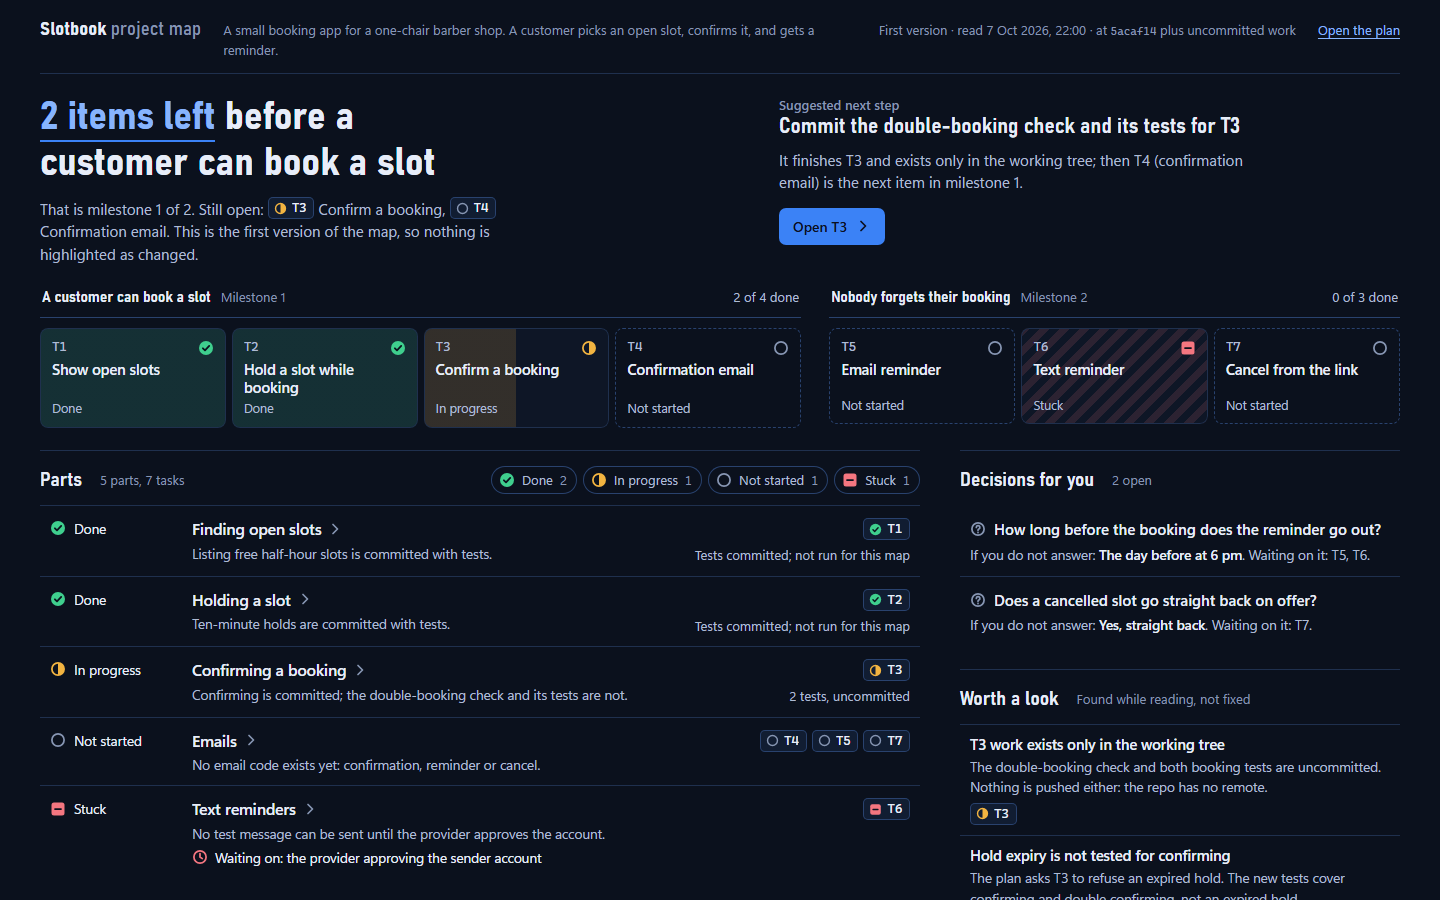
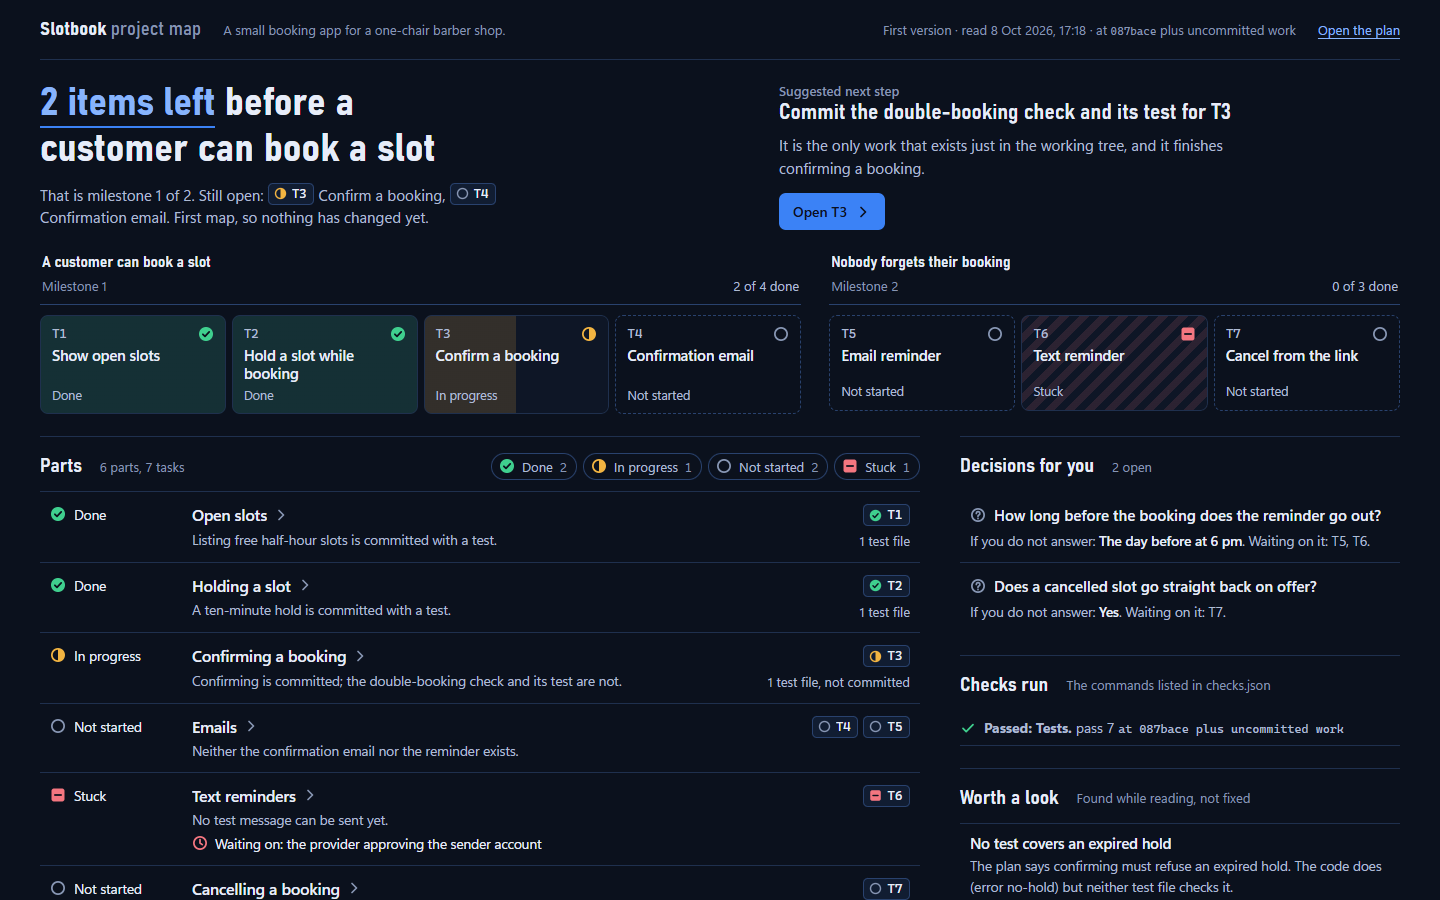
0.3.6: a check's summary counts results, new README pictures
- run-checks.mjs takes a check's summary from the line that counts
  passes or failures, and falls back to the last line. Node's runner
  ended on a duration and Maven on a rule.
- Both README pictures are retaken from a fresh map of the example
  booking app, with alt text to match.

diff --git a/README.md b/README.md
@@ -1,6 +1,6 @@
 # build-compass
 
-![A project map for a small booking app: four parts with their statuses, the next milestone and a suggested next step](docs/example-map.png)
+![A project map for a small booking app: six parts with their statuses, the next milestone, a suggested next step, two decisions and the check that ran](docs/example-map.png)
 
 **Know where your project stands without reading the transcript.**
 
@@ -25,7 +25,7 @@ The picture above is a real map, drawn by this plugin for a made-up booking app.
 - **When you come back to the map,** it lists what moved since you last looked, however many updates happened in between.
 - **When something needs your call,** it appears on the map as a decision with the default Claude will take if you do not answer.
 
-![A task opened on the map, showing what changed, its commit state and the files it touched](docs/example-task.png)
+![A task opened on the map, showing what was true before and now, one way to try it, the check that ran, and the code it runs through for checking it by hand](docs/example-task.png)
 
 ## What is in the plugin
 

diff --git a/CHANGELOG.md b/CHANGELOG.md
@@ -1,5 +1,10 @@
 # build-compass
 
+## 0.3.6
+
+- **A check's summary says how the tests went.** The summary was the last line a check command printed, and many test runners end on a duration or a rule: Node's own runner showed `duration_ms 139.6`, Maven a row of dashes. The summary is now the line that counts results, the last one counting passes for a passed check and the last counting failures for a failed one. With no such line it is the last line, as before.
+- **New pictures in the README.** Both are from a fresh map of the example booking app, and show the checks that ran, a task's before, now and try it, and the code it runs through for a check by hand.
+
 ## 0.3.5
 
 - **A run of checks shows its progress.** `run-checks.mjs` printed nothing until the last check had finished, so a few minutes of tests looked stuck. It now says when each check starts and ends, when a result is reused, and when a check is left for the next run. The lines go to stderr; the result on stdout is unchanged.
